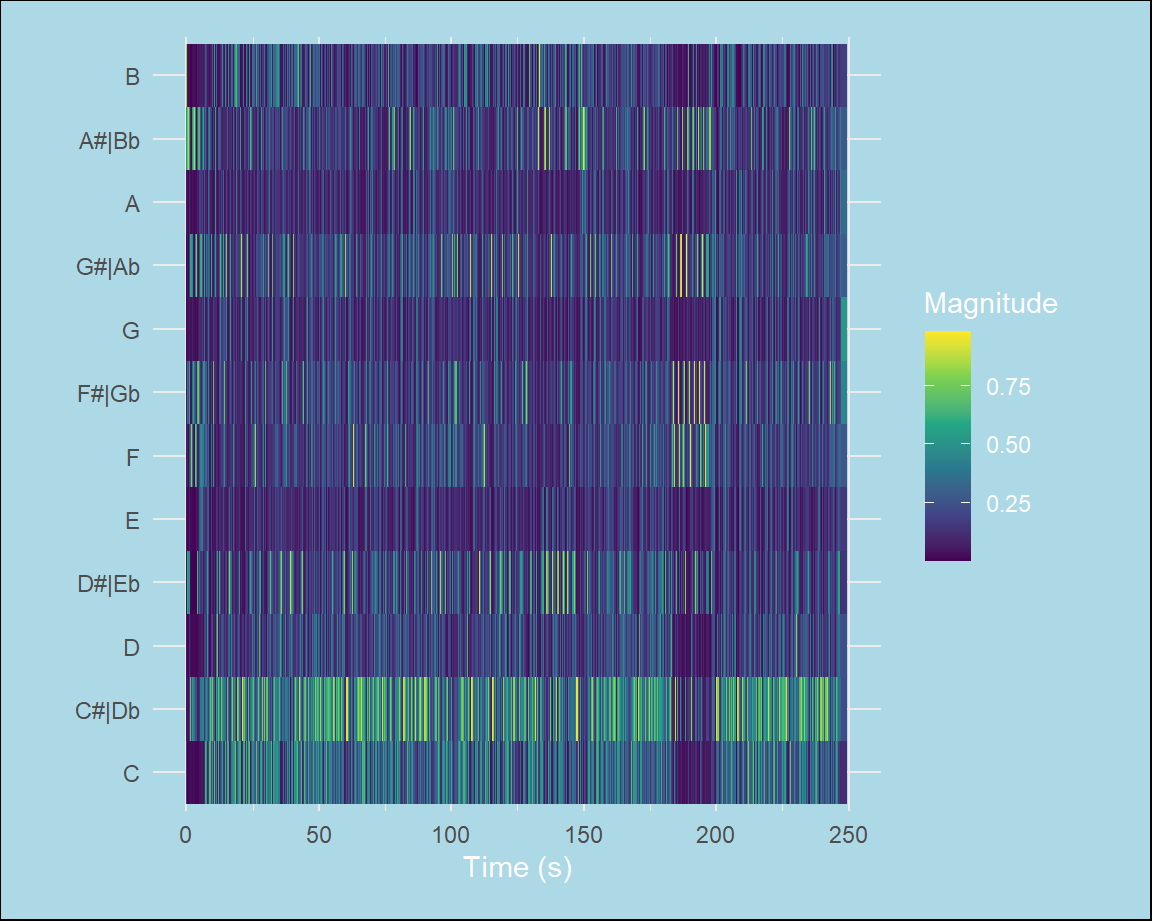
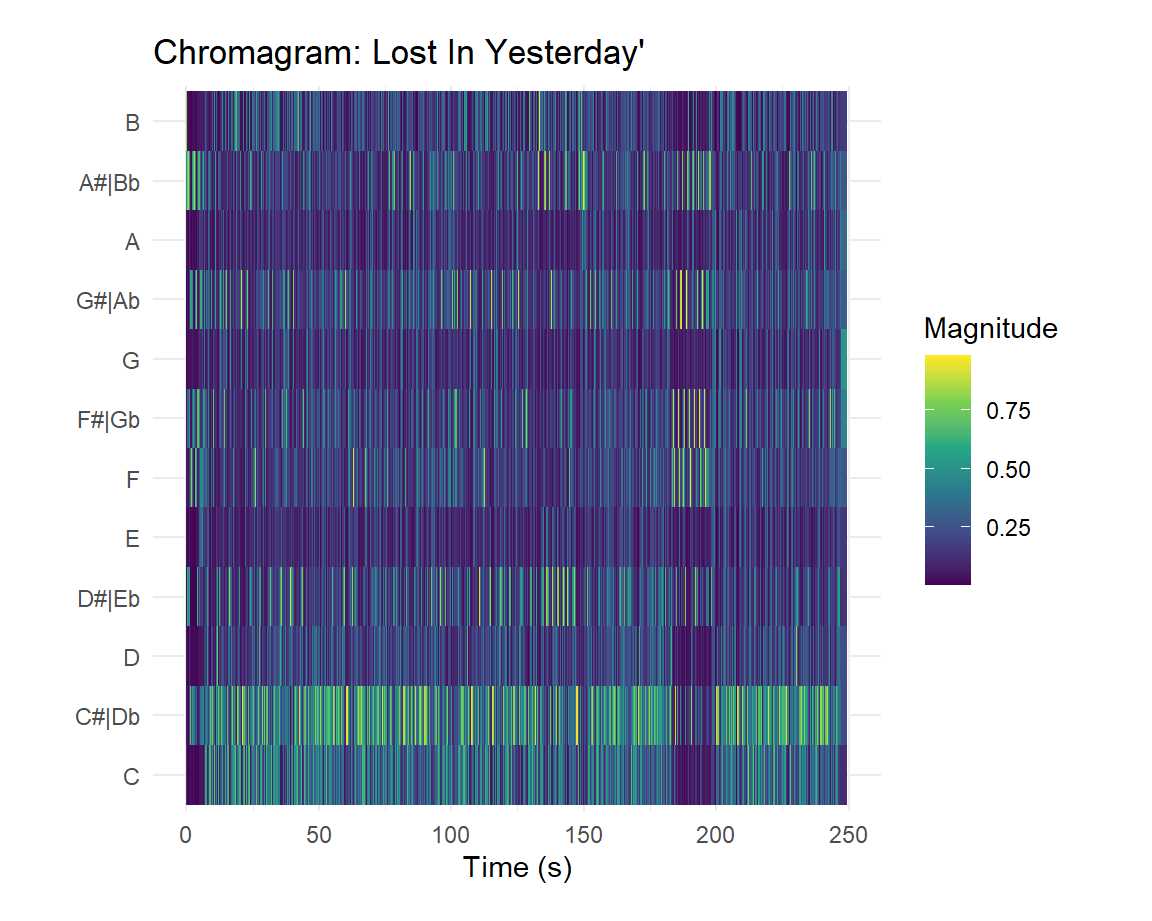
editing chromagrams

diff --git a/index.html b/index.html
@@ -1957,8 +1957,8 @@ because this category contains more songs.</p>
 <p>hfkhkanjbgkbnsjkBajkjv</p>
 </div>
 </div>
-<div id="chromagrammmmmmm" class="section level1">
-<h1>Chromagrammmmmmm</h1>
+<div id="chromagram" class="section level1">
+<h1>Chromagram</h1>
 <div id="column-2" class="section level2" data-width="500">
 <h2>Column</h2>
 <p>Here is a chromagram of the song Lost in Yesterday. In this song from
@@ -1987,7 +1987,10 @@ synth-pop and funk in addition to psychedelic influences.</p>
 <h1>Ceptrogram</h1>
 <div id="column-4" class="section level2" data-width="500">
 <h2>Column</h2>
+<div id="text" class="section level3">
+<h3>text</h3>
 <p>hfsghKZg</p>
+</div>
 </div>
 <div id="column-5" class="section level2" data-width="500">
 <h2>Column</h2>
@@ -2000,8 +2003,8 @@ synth-pop and funk in addition to psychedelic influences.</p>
 </div>
 </div>
 </div>
-<div id="ssm" class="section level1">
-<h1>SSM</h1>
+<div id="self-similarity-matrices" class="section level1">
+<h1>Self similarity matrices</h1>
 <div id="column-6" class="section level2" data-width="500">
 <h2>Column</h2>
 <p>posthumous forgiveness</p>
@@ -2084,7 +2087,7 @@ clustering method to see if this has any influence.</p>
 <h1>An interesting outlier</h1>
 <div id="column-12" class="section level2" data-width="500">
 <h2>Column</h2>
-<div id="text" class="section level3">
+<div id="text-1" class="section level3">
 <h3>Text</h3>
 <p>As</p>
 </div>
@@ -2100,8 +2103,8 @@ clustering method to see if this has any influence.</p>
 </div>
 </div>
 </div>
-<div id="sum" class="section level1">
-<h1>SUM</h1>
+<div id="track-level-summary" class="section level1">
+<h1>Track level summary</h1>
 <div id="column-14" class="section level2" data-width="500">
 <h2>Column</h2>
 <p>In this visualization, you can see a comparison between the two
@@ -2113,7 +2116,7 @@ this difference means and whether I can recognize it myself.</p>
 </div>
 <div id="column-15" class="section level2" data-width="500">
 <h2>Column</h2>
-<div id="track-level-summary" class="section level3">
+<div id="track-level-summary-1" class="section level3">
 <h3>Track level summary</h3>
 <div class="knitr-options" data-fig-width="576" data-fig-height="460">
 
